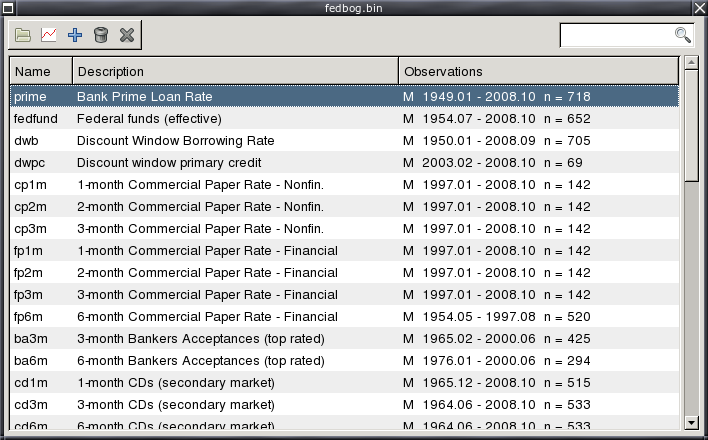
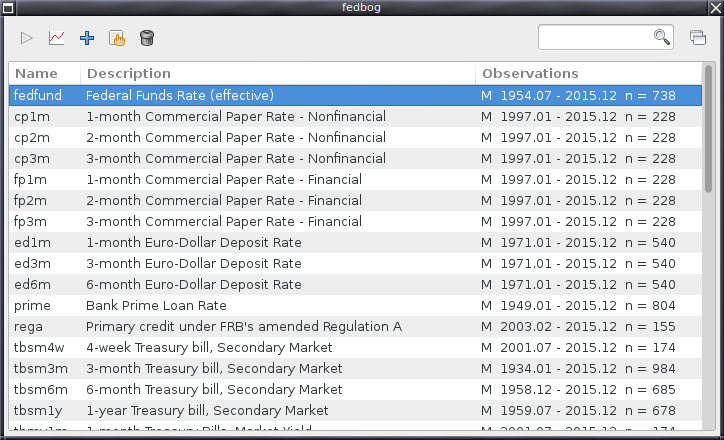
update some screenshots

diff --git a/doc/website/shots/shots.html b/doc/website/shots/shots.html
@@ -13,7 +13,7 @@ HREF="../css-gretl.html">
 
 <h1>gretl screenshots</h1>
 
-<p>Running on the Gnome desktop.<p>
+<p>Running on the Xfce desktop.<p>
 
 <p>The main window, with details of the current data set:</p>
 <center>
